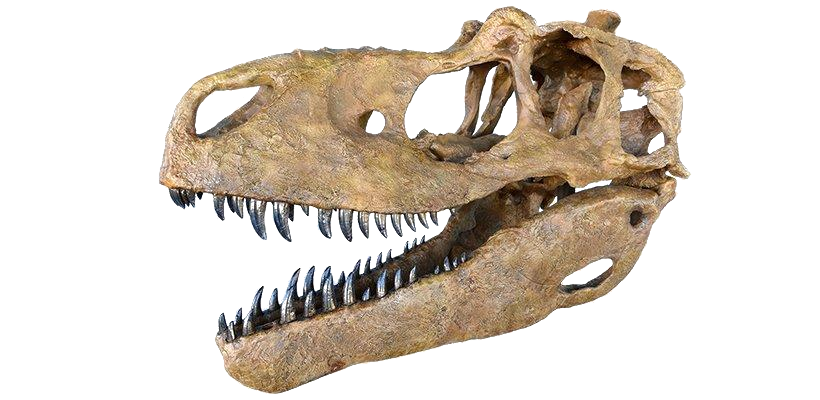
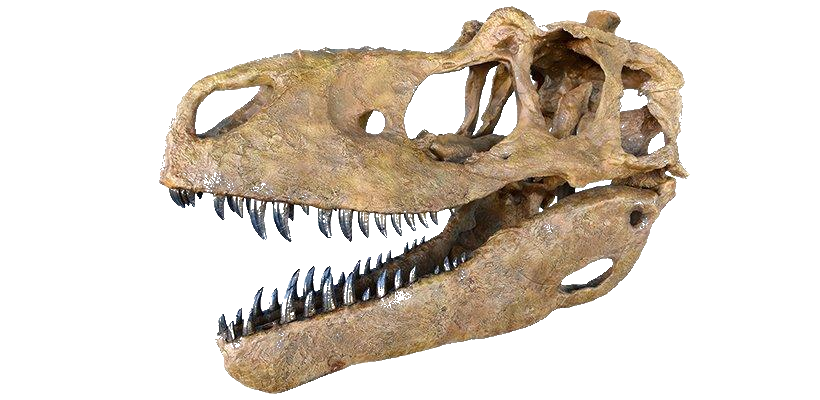
mobile trex frame fix

diff --git a/style.css b/style.css
@@ -1661,14 +1661,21 @@ nav a:focus-visible::before {
     font-size: 0;
     box-shadow: none;
     animation: none;
+    appearance: none;
+    -webkit-appearance: none;
+    -webkit-tap-highlight-color: transparent;
+    touch-action: manipulation;
 }
 
 #ufo-top:hover,
-#ufo-top:focus-visible {
+#ufo-top:focus-visible,
+#ufo-top:focus,
+#ufo-top:active {
     transform: translateY(-3px);
-    background: transparent;
-    box-shadow: none;
-    outline: none;
+    border: 0 !important;
+    background: transparent !important;
+    box-shadow: none !important;
+    outline: 0 !important;
 }
 #ufo-top.launch { animation: rexReturn .65s ease; }
 .rex-skull {
@@ -1676,15 +1683,13 @@ nav a:focus-visible::before {
     width: 100%;
     height: 100%;
     object-fit: cover;
-    filter: drop-shadow(0 3px 4px rgba(0,0,0,.72));
+    filter: none;
     transition: filter .25s ease, transform .25s ease;
 }
 
 #ufo-top:hover .rex-skull,
 #ufo-top:focus-visible .rex-skull {
-    filter:
-        drop-shadow(0 0 5px rgba(224, 204, 148, .5))
-        drop-shadow(0 5px 5px rgba(0,0,0,.75));
+    filter: drop-shadow(0 0 5px rgba(224, 204, 148, .5));
     transform: scale(1.04);
 }
 
@@ -1696,6 +1701,21 @@ nav a:focus-visible::before {
     .skill-group { grid-template-columns: 1fr; gap: 8px; }
     .card::before,
     #sentinel-dashboard::before { display: none; }
+
+    #ufo-top,
+    #ufo-top:hover,
+    #ufo-top:focus,
+    #ufo-top:focus-visible,
+    #ufo-top:active {
+        border: 0 !important;
+        border-radius: 0 !important;
+        outline: 0 !important;
+        background: transparent !important;
+        box-shadow: none !important;
+        -webkit-appearance: none !important;
+        appearance: none !important;
+        -webkit-tap-highlight-color: transparent;
+    }
 }
 
 @media (prefers-reduced-motion: reduce) {
